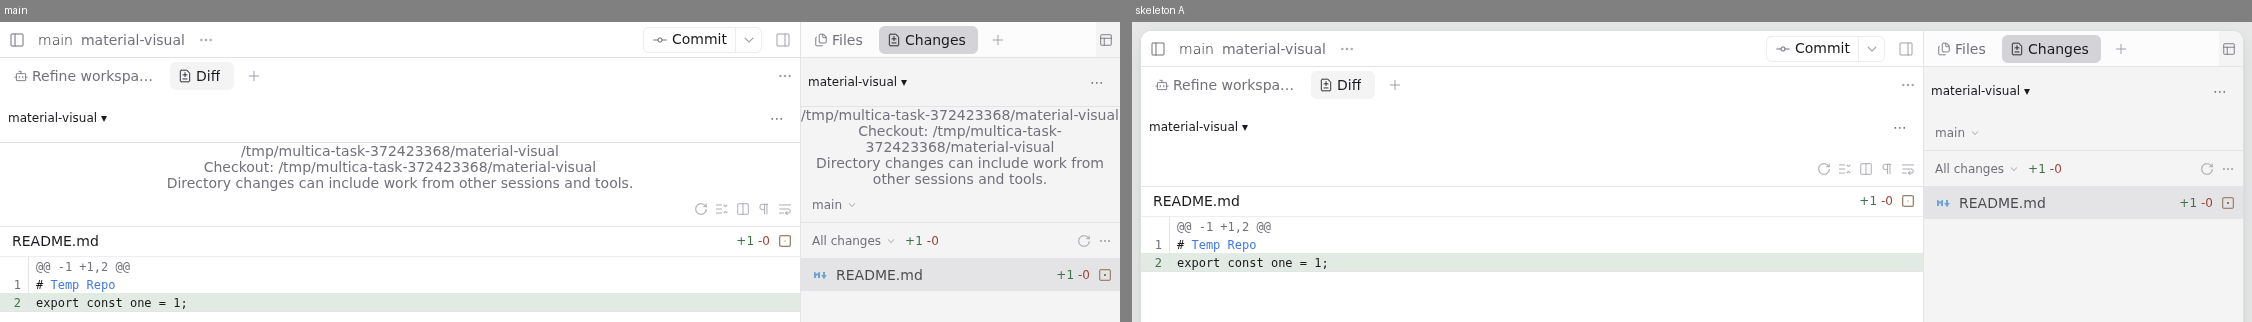
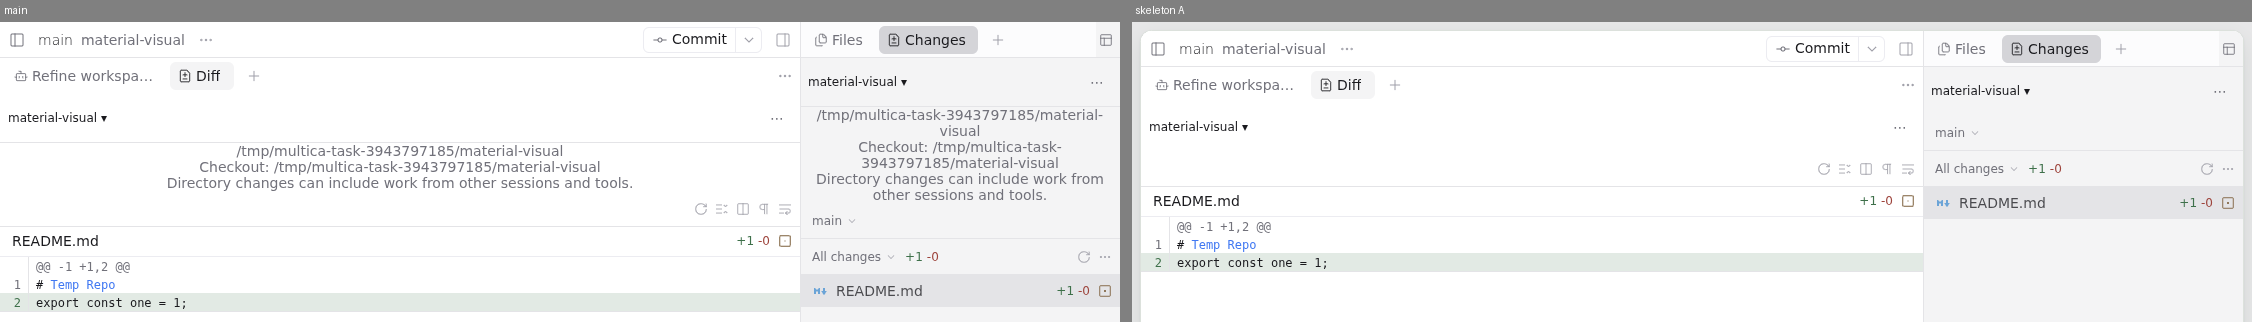
docs(fork): record the directory menu checkout evidence

diff --git a/docs/qa-evidence/materials/skeleton-a/README.md b/docs/qa-evidence/materials/skeleton-a/README.md
@@ -4,15 +4,16 @@ Before/after pairs from `e2e/browser/materials-visual.spec.ts`: left is `main` a
 
 ## What changed
 
-| Scene                          | Change                                                                                                  |
-| ------------------------------ | ------------------------------------------------------------------------------------------------------- |
-| All 1440 scenes                | The workspace floats as a 12px-radius panel 8px inside the window on the sidebar floor; no sidebar line |
-| `*-1440-sidebar-collapsed`     | The panel keeps its four insets with the sidebar hidden                                                 |
-| `*-1440-dialog`, `*-1440-menu` | Only the skeleton behind the scrim moves; the dialog and menu are unchanged                             |
-| `p0-6-pill-row-*`              | The diff-stat pill takes the hint material: 96% fill, 8px blur, hint border and shadow                  |
-| `p0-8-diff-header`             | The three-line path block is gone; the checkout path is in the directory selector tooltip; one divider  |
-| `p0-2-directory-menu`          | Every directory action has a leading icon and starts its title on one rail; `+` dropped from the label  |
-| All 390 scenes (16)            | Pixel-identical to `main` (`maxDiffPixels: 0`)                                                          |
+| Scene                          | Change                                                                                                   |
+| ------------------------------ | -------------------------------------------------------------------------------------------------------- |
+| All 1440 scenes                | The workspace floats as a 12px-radius panel 8px inside the window on the sidebar floor; no sidebar line  |
+| `*-1440-sidebar-collapsed`     | The panel keeps its four insets with the sidebar hidden                                                  |
+| `*-1440-dialog`, `*-1440-menu` | Only the skeleton behind the scrim moves; the dialog and menu are unchanged                              |
+| `p0-6-pill-row-*`              | The diff-stat pill takes the hint material: 96% fill, 8px blur, hint border and shadow                   |
+| `p0-8-diff-header`             | The three-line path block is gone and the header keeps one divider                                       |
+| `p0-8-*-directory-select`      | The checkout path and the shared-changes hint head the directory menu: a popover at 1440, a sheet at 390 |
+| `p0-2-directory-menu`          | Every directory action has a leading icon and starts its title on one rail; `+` dropped from the label   |
+| All 390 scenes (16)            | Pixel-identical to `main` (`maxDiffPixels: 0`)                                                           |
 
 ## Mac verification still needed
 
